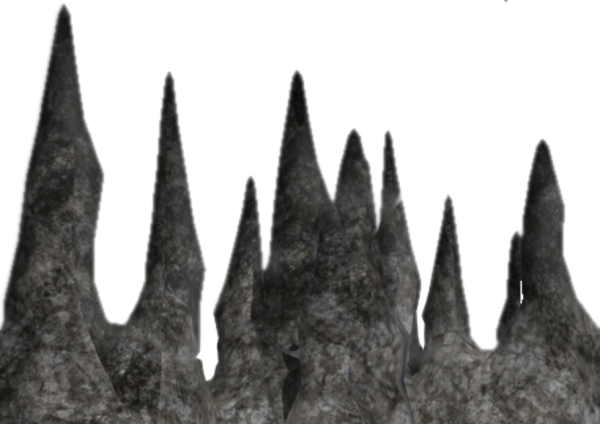
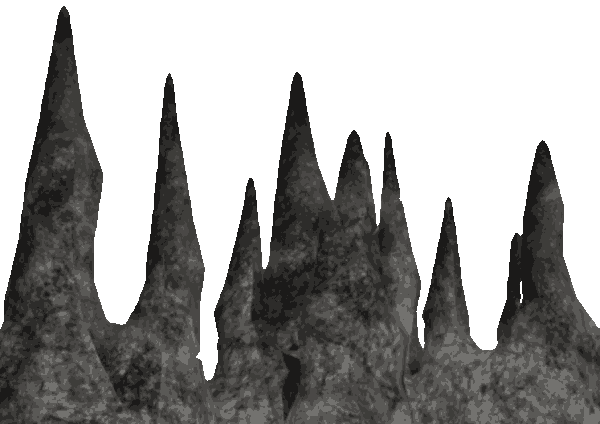
v1.0.4 - Set foreground overlays to use indexed colors * Set foreground overlays to use indexed colors * Adjusted snow biome stalagmites * Lowered crimson trees

diff --git a/Surroundings/Scenes/Contexts/SurfaceCrimson/Trees/SurfaceCrimsonScene.cs b/Surroundings/Scenes/Contexts/SurfaceCrimson/Trees/SurfaceCrimsonScene.cs
@@ -1,10 +1,8 @@
 using System;
+using Microsoft.Xna.Framework.Graphics;
+using Terraria;
 using HamstarHelpers.Helpers.Debug;
 using HamstarHelpers.Helpers.World;
-using Microsoft.Xna.Framework;
-using Microsoft.Xna.Framework.Graphics;
-using Surroundings.Scenes.Components.Mists;
-using Terraria;
 
 
 namespace Surroundings.Scenes.Contexts.SurfaceCrimson {
@@ -41,7 +39,7 @@ namespace Surroundings.Scenes.Contexts.SurfaceCrimson {
 		public override int GetSceneTextureVerticalOffset( float yPercent, int texHeight ) {
 			int offset = (int)( yPercent * (float)texHeight * 1.25f );
 			//offset += 224 + SurroundingsMod.Instance.DebugOverlayOffset;
-			offset += (Main.screenHeight - 544) + SurroundingsMod.Instance.DebugOverlayOffset;
+			offset += (Main.screenHeight - 568) + SurroundingsMod.Instance.DebugOverlayOffset;  //was 544
 
 			return offset;
 		}

diff --git a/Surroundings/Scenes/Contexts/CavernRock/CavernRockSceneTop.cs b/Surroundings/Scenes/Contexts/CavernRock/CavernRockSceneTop.cs
@@ -1,11 +1,11 @@
 using System;
 using System.Linq;
-using HamstarHelpers.Helpers.Debug;
-using HamstarHelpers.Helpers.World;
-using HamstarHelpers.Helpers.XNA;
 using Microsoft.Xna.Framework;
 using Microsoft.Xna.Framework.Graphics;
 using Terraria;
+using HamstarHelpers.Helpers.Debug;
+using HamstarHelpers.Helpers.World;
+using HamstarHelpers.Helpers.XNA;
 
 
 namespace Surroundings.Scenes.Contexts.CavernRock {

diff --git a/Surroundings/Scenes/Contexts/CavernRock/CavernRockSceneBottom.cs b/Surroundings/Scenes/Contexts/CavernRock/CavernRockSceneBottom.cs
@@ -1,10 +1,10 @@
 using System;
 using System.Linq;
-using HamstarHelpers.Helpers.Debug;
-using HamstarHelpers.Helpers.World;
 using Microsoft.Xna.Framework;
 using Microsoft.Xna.Framework.Graphics;
 using Terraria;
+using HamstarHelpers.Helpers.Debug;
+using HamstarHelpers.Helpers.World;
 
 
 namespace Surroundings.Scenes.Contexts.CavernRock {

diff --git a/Surroundings/Scenes/Contexts/CavernSnow/CavernSnowSceneBottom.cs b/Surroundings/Scenes/Contexts/CavernSnow/CavernSnowSceneBottom.cs
@@ -1,8 +1,8 @@
 using System;
-using HamstarHelpers.Helpers.Debug;
-using HamstarHelpers.Helpers.World;
 using Microsoft.Xna.Framework.Graphics;
 using Terraria;
+using HamstarHelpers.Helpers.Debug;
+using HamstarHelpers.Helpers.World;
 
 
 namespace Surroundings.Scenes.Contexts.CavernSnow {

diff --git a/Surroundings/Scenes/Contexts/CavernSnow/CavernSnowSceneTop.cs b/Surroundings/Scenes/Contexts/CavernSnow/CavernSnowSceneTop.cs
@@ -1,8 +1,8 @@
 using System;
-using HamstarHelpers.Helpers.Debug;
-using HamstarHelpers.Helpers.World;
 using Microsoft.Xna.Framework.Graphics;
 using Terraria;
+using HamstarHelpers.Helpers.Debug;
+using HamstarHelpers.Helpers.World;
 
 
 namespace Surroundings.Scenes.Contexts.CavernSnow {

diff --git a/Surroundings/Scenes/Contexts/CavernRock/CavernRockSceneBottomFar.cs b/Surroundings/Scenes/Contexts/CavernRock/CavernRockSceneBottomFar.cs
@@ -1,8 +1,8 @@
 using System;
-using HamstarHelpers.Helpers.Debug;
 using Microsoft.Xna.Framework;
 using Microsoft.Xna.Framework.Graphics;
 using Terraria;
+using HamstarHelpers.Helpers.Debug;
 
 
 namespace Surroundings.Scenes.Contexts.CavernRock {

diff --git a/Surroundings/Scenes/Contexts/CavernRock/CavernRockSceneBottomNear.cs b/Surroundings/Scenes/Contexts/CavernRock/CavernRockSceneBottomNear.cs
@@ -1,8 +1,8 @@
 using System;
-using HamstarHelpers.Helpers.Debug;
 using Microsoft.Xna.Framework;
 using Microsoft.Xna.Framework.Graphics;
 using Terraria;
+using HamstarHelpers.Helpers.Debug;
 
 
 namespace Surroundings.Scenes.Contexts.CavernRock {

diff --git a/Surroundings/Scenes/Contexts/CavernRock/CavernRockSceneTopFar.cs b/Surroundings/Scenes/Contexts/CavernRock/CavernRockSceneTopFar.cs
@@ -1,8 +1,8 @@
 using System;
-using HamstarHelpers.Helpers.Debug;
 using Microsoft.Xna.Framework;
 using Microsoft.Xna.Framework.Graphics;
 using Terraria;
+using HamstarHelpers.Helpers.Debug;
 
 
 namespace Surroundings.Scenes.Contexts.CavernRock {

diff --git a/Surroundings/Scenes/Contexts/CavernRock/CavernRockSceneTopNear.cs b/Surroundings/Scenes/Contexts/CavernRock/CavernRockSceneTopNear.cs
@@ -1,8 +1,8 @@
 using System;
-using HamstarHelpers.Helpers.Debug;
 using Microsoft.Xna.Framework;
 using Microsoft.Xna.Framework.Graphics;
 using Terraria;
+using HamstarHelpers.Helpers.Debug;
 
 
 namespace Surroundings.Scenes.Contexts.CavernRock {

diff --git a/Surroundings/Scenes/Contexts/CavernSnow/CavernSnowSceneBottomFar.cs b/Surroundings/Scenes/Contexts/CavernSnow/CavernSnowSceneBottomFar.cs
@@ -1,8 +1,8 @@
 using System;
-using HamstarHelpers.Helpers.Debug;
 using Microsoft.Xna.Framework;
 using Microsoft.Xna.Framework.Graphics;
 using Terraria;
+using HamstarHelpers.Helpers.Debug;
 
 
 namespace Surroundings.Scenes.Contexts.CavernSnow {

diff --git a/Surroundings/Scenes/Contexts/CavernSnow/CavernSnowSceneBottomNear.cs b/Surroundings/Scenes/Contexts/CavernSnow/CavernSnowSceneBottomNear.cs
@@ -1,8 +1,8 @@
 using System;
-using HamstarHelpers.Helpers.Debug;
 using Microsoft.Xna.Framework;
 using Microsoft.Xna.Framework.Graphics;
 using Terraria;
+using HamstarHelpers.Helpers.Debug;
 
 
 namespace Surroundings.Scenes.Contexts.CavernSnow {

diff --git a/Surroundings/Scenes/Contexts/CavernSnow/CavernSnowSceneTopFar.cs b/Surroundings/Scenes/Contexts/CavernSnow/CavernSnowSceneTopFar.cs
@@ -1,8 +1,8 @@
 using System;
-using HamstarHelpers.Helpers.Debug;
 using Microsoft.Xna.Framework;
 using Microsoft.Xna.Framework.Graphics;
 using Terraria;
+using HamstarHelpers.Helpers.Debug;
 
 
 namespace Surroundings.Scenes.Contexts.CavernSnow {
